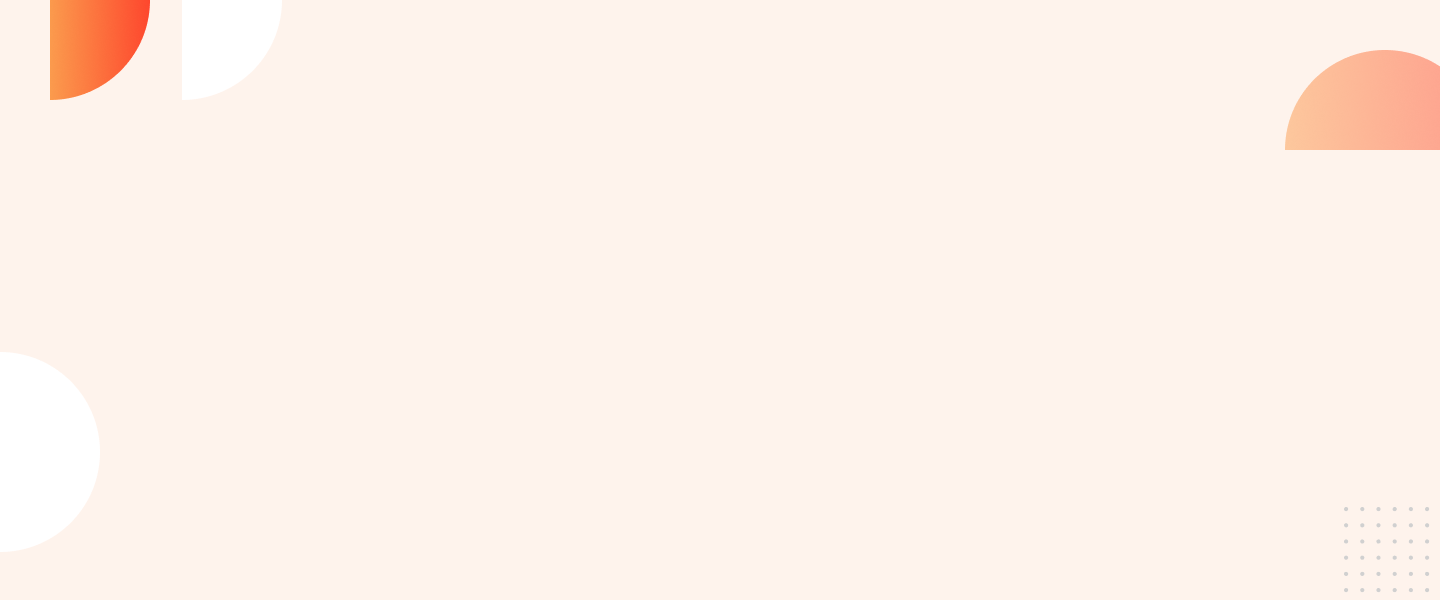
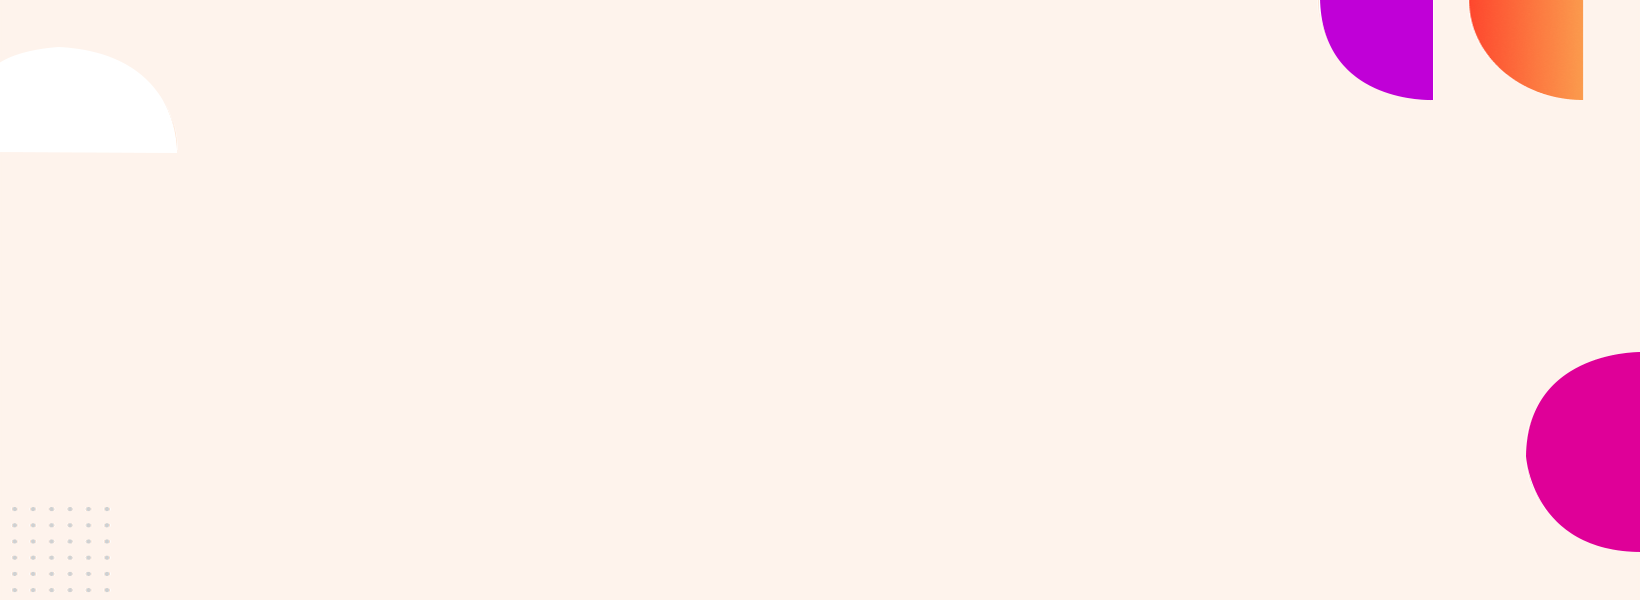
more fun

Changed region(s): [[0.7812, 0.0, 1.0, 0.27], [0.9062, 0.57, 1.0, 0.93], [0.0312, 0.0, 0.125, 0.18]]

diff --git a/index.html b/index.html
@@ -25,14 +25,14 @@
 
 </section>
 <section class="dream job">
-    <div class="half-width"><img src="images/female/WER.png" alt="">
+    <div class="half-width"><img src="images/female/shape with baby girl.jpg" alt="">
     </div>
 
     <div class="half-width">
         <h1>dream job</h1>
         <h3>Imagine you don't need a diet because we provide healty and delicious food for you!</h3>
         <p>Lorem ipsum dolor sit, amet consectetur adipisicing elit. Minus beatae ad dolores iusto laboriosam libero quia est vero repellat labore tenetur expedita recusandae, iste modi aliquam earum sit? Exercitationem, maxime.</p>
-        <a class="contract-button" target="_blank" href="">DOWNLOAD-RESUME</a>
+        <a class="contract-button" target="_blank" href="https://www.facebook.com/FreelancerSwapnil">DOWNLOAD-RESUME</a>
     </div>
 </section>
 

diff --git a/style.css b/style.css
@@ -1,7 +1,5 @@
 body {
     font-family: 'Otomanopee One', sans-serif;
-    padding-left: 5px;
-    margin: 0;
 }
 
 h1 {
@@ -9,12 +7,12 @@ h1 {
 }
 
 .color-change {
-    color: coral;
+    color: rgb(200, 0, 190);
 }
 
 section {
     display: flex;
-    margin: 20px;
+    margin: 0px;
 }
 
 .half-width {
@@ -39,4 +37,10 @@ section {
 .top-banner {
     background-image: url(images/shapes/7.png);
     background-repeat: no-repeat;
+}
+
+.dream job {
+    background-image: url(images/shapes/7.png);
+    background-repeat: no-repeat;
+    background-position: left;
 }
